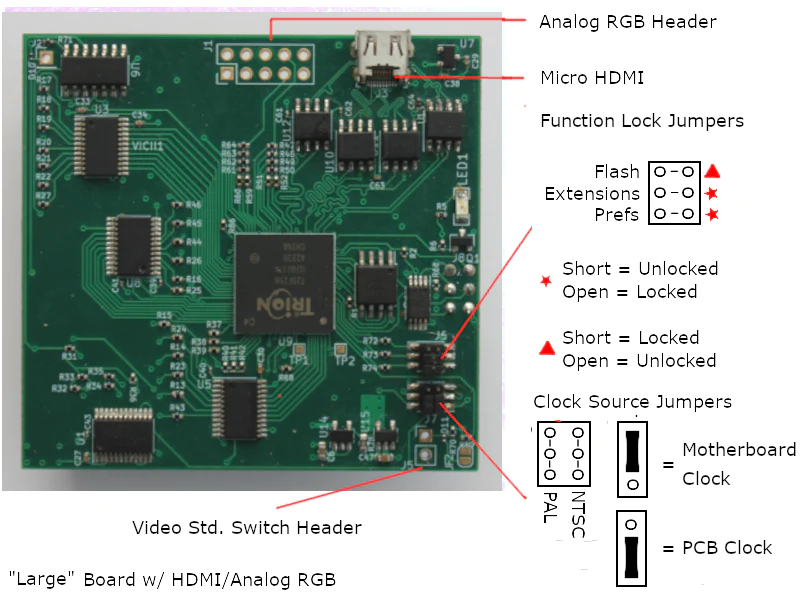
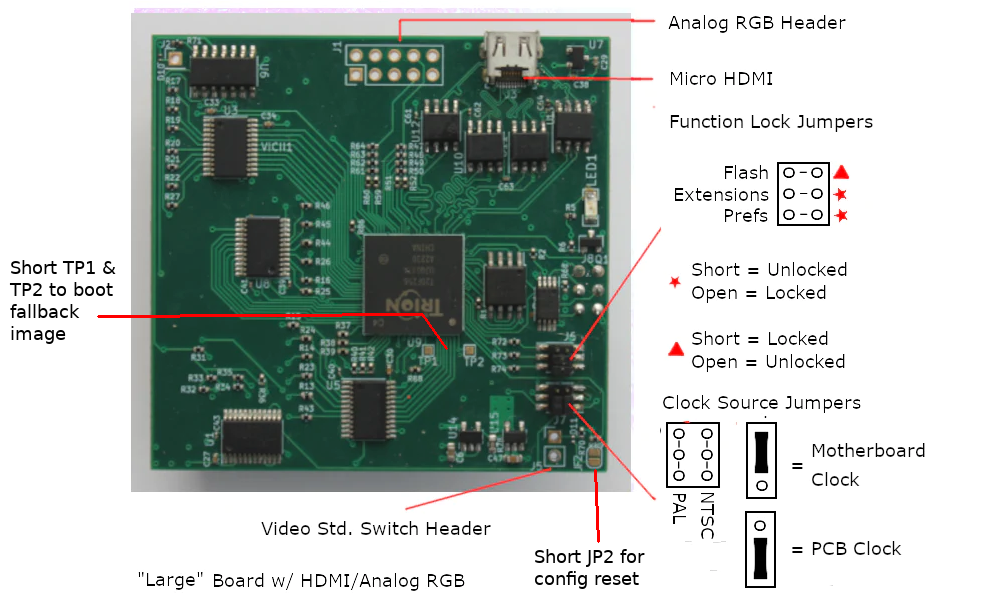
Some doc updates about config reset and fallback boot

diff --git a/doc/VARIANTS.md b/doc/VARIANTS.md
@@ -2,6 +2,40 @@ Back to [README.md](../README.md)
 
 # Variants
 
+## Mini Trion Board (Rev 1.3 / 1.4 / 1.5)
+
+    TYPE: Mini            FPGA: T20Q144C3
+    VARIANT CODE: LH      FLASH: W25Q16JVSSIM    EEPROM: M95160-DRDW8
+    BUILD CODES: MAINLH MAINLH-DOTC
+
+![alt text](https://raw.githubusercontent.com/randyrossi/vicii-kawari/main/doc/images/4LH_Jumpers.png)
+
+Jumper | Function
+-------|---------
+JP2    | Boot fallback firmware at cold boot (short while booting)
+JP3    | Reset flash configuration to factory defaults, short at READY screen, border will turn white
+
+NOTE: Rev 1.5 added a CLK pad to optionally export the dot clock. There is already a 33ohm resistor on the line.  This can be activated with one of the specialty builds.  Earlier rev boards can export the dot clock through Pin 3 of the 74LS06D chip but requires a 33ohm resistor.
+
+## Large Trion Board (Rev 1.2 / 1.3)
+
+Revision 1.2/1.3 of the Large Efinix Trion based board (200).
+
+    TYPE: Large            FPGA: T20FBGA256
+    VARIANT CODE: LG       FLASH: W25Q16JVSSIM    EEPROM: M95160-DRDW8
+    BUILD CODES: MAINLG-DVI MAINLG-RGB
+
+![alt text](https://raw.githubusercontent.com/randyrossi/vicii-kawari/main/doc/images/4LG_Jumpers.png)
+
+Jumper | Function
+-------|---------
+TP1&TP2| Boot fallback firmware at cold boot (short while booting)
+JP2    | Reset flash configuration to factory defaults, short at READY screen, border will turn white
+
+NOTE: The CLK pad on the analog header is always active (since v1.17) but requires an external 33ohm resistor.
+
+# Legacy/Beta Boards
+
 ## Large Spartan 'Beta' Board (Rev B)
 
 This board was sent to 10 BETA testers.
@@ -21,29 +55,4 @@ Last version of the large spartan based board. Only 7 were made.  Further produc
     BUILD CODES: MAINLD
 
 ![alt text](https://raw.githubusercontent.com/randyrossi/vicii-kawari/main/doc/images/4LD_Jumpers.png)
-
-## Mini Trion Board (Rev 1.3 & Rev 1.4)
-
-Revision 1.3 of the Efinix Trion based board (50).
-Revision 1.4 of the Efinix Trion based board (200).
-
-    TYPE: Mini            FPGA: T20Q144C3
-    VARIANT CODE: LH      FLASH: W25Q16JVSSIM    EEPROM: M95160-DRDW8
-    BUILD CODES: MAINLH MAINLH-DOTC
-
-![alt text](https://raw.githubusercontent.com/randyrossi/vicii-kawari/main/doc/images/4LH_Jumpers.png)
-
-MINI FALLBACK FIRMWARE ACTIVATION - SHORT JP2 pads together and cold boot.
-
-## Large Trion Board (Rev 1.2)
-
-Revision 1.2 of the Large Efinix Trion based board (200).
-
-    TYPE: Large            FPGA: T20FBGA256
-    VARIANT CODE: LG       FLASH: W25Q16JVSSIM    EEPROM: M95160-DRDW8
-    BUILD CODES: MAINLG-DVI MAINLG-RGB
-
-![alt text](https://raw.githubusercontent.com/randyrossi/vicii-kawari/main/doc/images/4LG_Jumpers.png)
-
-LARGE FALLBACK FIRMWARE ACTIVATION - SHORT TP1 and TP2 pads together and cold boot.
 

diff --git a/doc/FIRMWARE.md b/doc/FIRMWARE.md
@@ -2,7 +2,7 @@ Back to [README.md](../README.md)
 
 # READ THIS BEFORE FLASHING!
 
-All boards have an **Active** image (the one that boots normally) and a **Fallback** image that can be triggered by shorting certain pads on the board.  The **Fallback** image is there in case the **Active** image fails for some reason.
+All boards have an **Active** image (the one that boots normally) and a **Fallback** image that can be triggered by shorting certain pads on the board.  The **Fallback** image is there in case the **Active** image fails for some reason. See [VARIANTS.md](VARIANTS.md) for jumper documentation.
 
 When using the individual .D64 files, please make sure you are actually able to swap disks! (using SD2IEC, Pi1541, etc).  For the Pi1541, you must mount ALL DISKS into your queue before starting the flash operation.  For the SD2IEC, please make sure your 'Next' button works as expected.  For the .D81, you can just press RETURN when prompted to swap disks.
 

diff --git a/README.md b/README.md
@@ -12,11 +12,10 @@ The PCB interfaces with a real C64 address and data bus through the VIC-II socke
 ## Resources
 
 [Utility and Demo Disks](http://accentual.com/vicii-kawari/downloads/prog) - Utilty and demo disk download area<br>
-[Forum Server](https://accentual.com/forum) - Discussions, ask questions<br>
 [Discord Server](https://discord.gg/KZcRBfZh8z) - Chat about stuff, ask questions<br>
 [Report Issues](https://github.com/randyrossi/vicii-kawari/issues) - File bugs/issues<br>
 
-[Firmware Downloads](doc/FIRMWARE.md) | [Flashing Guide](doc/FLASHING.md) | [Jumpers](doc/VARIANTS.md) | [Programming](doc/REGISTERS.md)
+[Firmware Download Links](doc/FIRMWARE.md) | [Flashing Guide](doc/FLASHING.md) | [Jumpers](doc/VARIANTS.md) | [Programming](doc/REGISTERS.md)
 
 ## Forking VIC-II Kawari?
 
